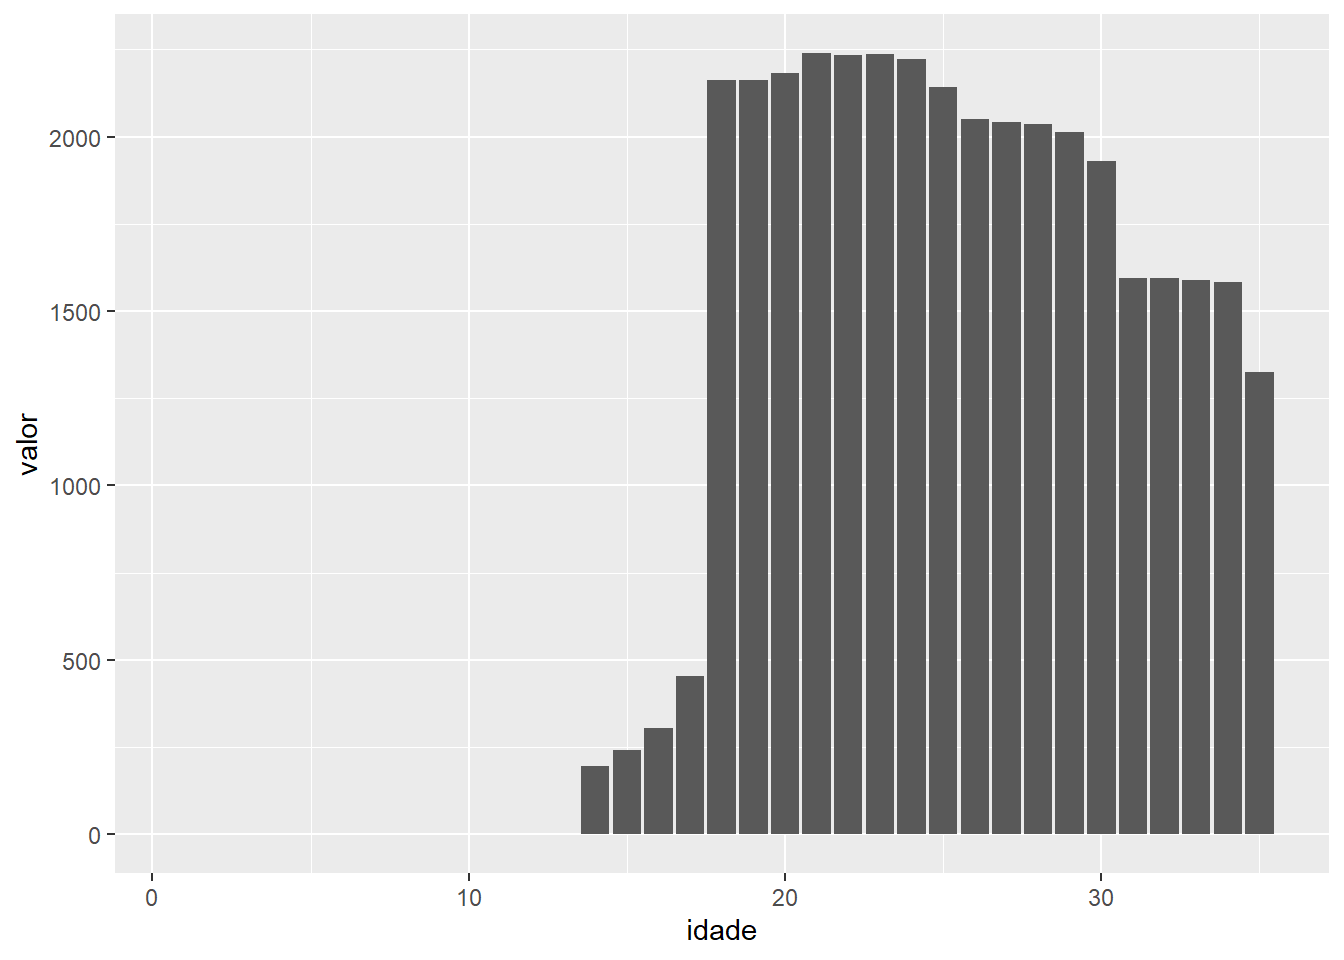
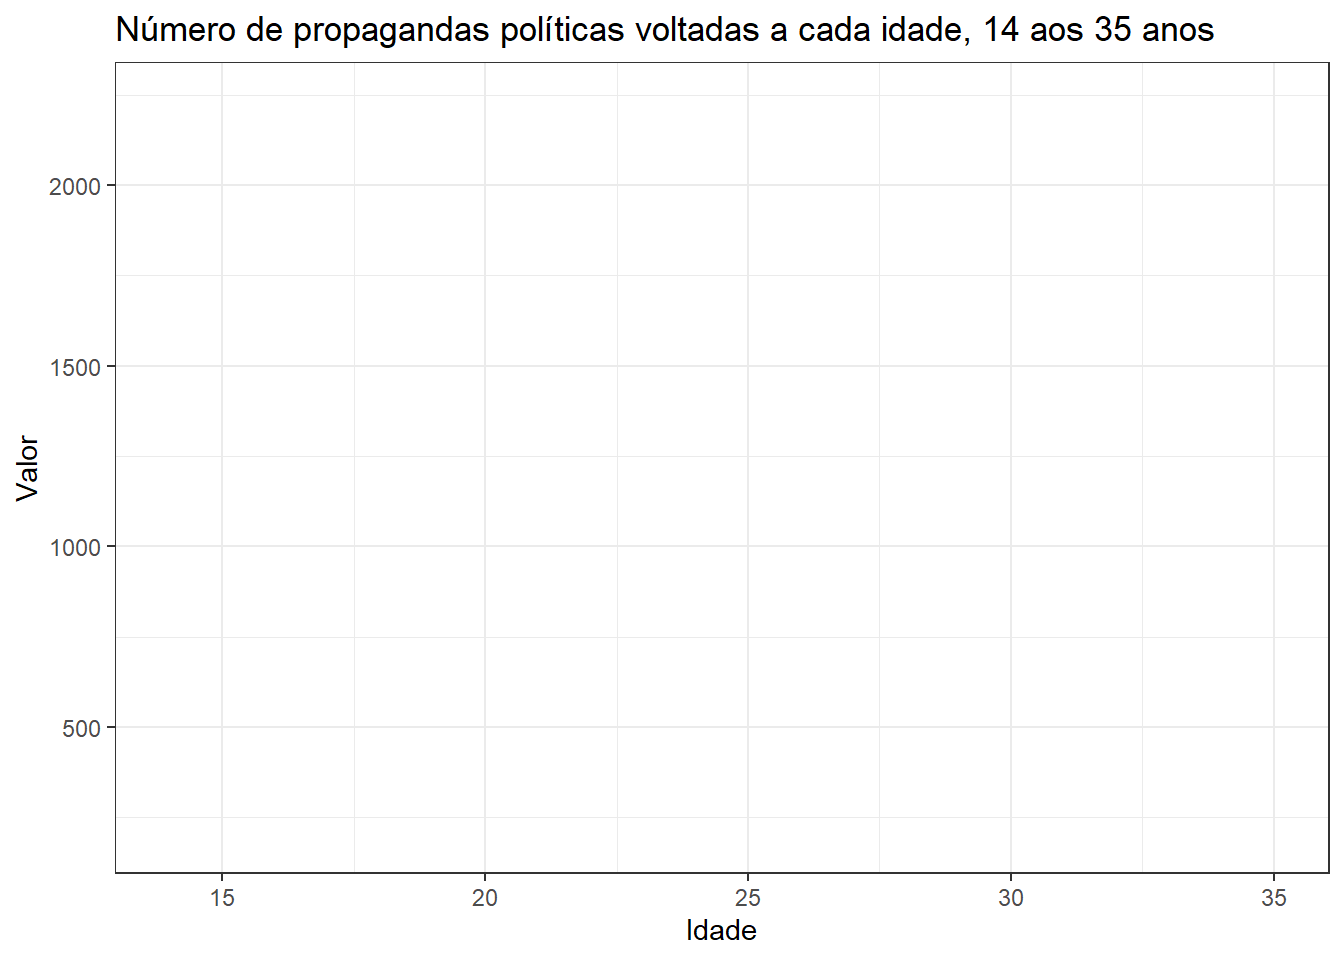
Corrige erros de portugues e altera grafico

diff --git a/static/blog/2019-10-13-propaganda-politica-snapchat_files/figure-html/widgets/widget_unnamed-chunk-2.html b/static/blog/2019-10-13-propaganda-politica-snapchat_files/figure-html/widgets/widget_unnamed-chunk-2.html
@@ -17,12 +17,12 @@
 </head>
 <body>
 <div id="htmlwidget_container">
-  <div id="htmlwidget-f6d1aeaefe73d2535bd1" style="width:100%;height:500px;" class="datatables html-widget"></div>
+  <div id="htmlwidget-85fda7d5fd07030310c1" style="width:100%;height:500px;" class="datatables html-widget"></div>
   <script>HTMLWidgets.pymChild = new pym.Child();HTMLWidgets.addPostRenderHandler(function(){
                                 setTimeout(function(){HTMLWidgets.pymChild.sendHeight();},100);
                             });</script>
 </div>
-<script type="application/json" data-for="htmlwidget-f6d1aeaefe73d2535bd1">{"x":{"filter":"none","data":[["1","2","3","4","5","6","7","8","9","10","11","12","13","14","15","16","17","18","19","20","21","22","23","24","25","26","27","28","29"],["argentina","australia","austria","belgium","brazil","canada","chile","denmark","finland","france","germany","india","iraq","ireland","kuwait","lithuania","netherlands","new zealand","nigeria","norway","poland","puerto rico","south africa","sweden","switzerland","turkey","united arab emirates","united kingdom","united states"],[6,27,31,28,1,291,1,97,17,58,8,18,1,21,35,3,75,1,9,342,14,1,10,19,16,4,5,101,1601]],"container":"<table class=\"display\">\n  <thead>\n    <tr>\n      <th> <\/th>\n      <th>CountryCode<\/th>\n      <th>n<\/th>\n    <\/tr>\n  <\/thead>\n<\/table>","options":{"columnDefs":[{"className":"dt-right","targets":2},{"orderable":false,"targets":0}],"order":[],"autoWidth":false,"orderClasses":false}},"evals":[],"jsHooks":[]}</script>
-<script type="application/htmlwidget-sizing" data-for="htmlwidget-f6d1aeaefe73d2535bd1">{"viewer":{"width":"100%","height":350,"padding":0,"fill":false},"browser":{"width":"100%","height":500,"padding":0,"fill":false}}</script>
+<script type="application/json" data-for="htmlwidget-85fda7d5fd07030310c1">{"x":{"filter":"none","data":[["1","2","3","4","5","6","7","8","9","10","11","12","13","14","15","16","17","18","19","20","21","22","23","24","25","26","27","28","29"],["argentina","australia","austria","belgium","brazil","canada","chile","denmark","finland","france","germany","india","iraq","ireland","kuwait","lithuania","netherlands","new zealand","nigeria","norway","poland","puerto rico","south africa","sweden","switzerland","turkey","united arab emirates","united kingdom","united states"],[6,27,31,28,1,291,1,97,17,58,8,18,1,21,35,3,75,1,9,342,14,1,10,19,16,4,5,101,1601]],"container":"<table class=\"display\">\n  <thead>\n    <tr>\n      <th> <\/th>\n      <th>CountryCode<\/th>\n      <th>n<\/th>\n    <\/tr>\n  <\/thead>\n<\/table>","options":{"columnDefs":[{"className":"dt-right","targets":2},{"orderable":false,"targets":0}],"order":[],"autoWidth":false,"orderClasses":false}},"evals":[],"jsHooks":[]}</script>
+<script type="application/htmlwidget-sizing" data-for="htmlwidget-85fda7d5fd07030310c1">{"viewer":{"width":"100%","height":350,"padding":0,"fill":false},"browser":{"width":"100%","height":500,"padding":0,"fill":false}}</script>
 </body>
 </html>

diff --git a/content/blog/2019-10-13-propaganda-politica-snapchat.html b/content/blog/2019-10-13-propaganda-politica-snapchat.html
@@ -17,7 +17,7 @@ tags:
 
 <div id="snapchat" class="section level1">
 <h1>Snapchat</h1>
-<p><a href="https://www.snapchat.com/">Snapchat</a> é uma rede social na qual os usuários mandam mensagens com base em imagens para outros usuários da rede. A plataforma <a href="https://www.snap.com/en-US/political-ads/">disponibilizou</a> dados sobre as propagandas políticas feitas na rede social de modo a ter uma plataforma mais transparente para os usuários. Os dados foram coletados do site do snapchat para os anos de 2018 e 2019 e avaliados.</p>
+<p><a href="https://www.snapchat.com/">Snapchat</a> é uma rede social na qual os usuários mandam mensagens com base em imagens para outros usuários da rede. A plataforma <a href="https://www.snap.com/en-US/political-ads/">disponibilizou</a> dados sobre as propagandas políticas feitas na rede social de modo a ter uma plataforma mais transparente para os usuários. Os dados foram coletados do site do Snapchat para os anos de 2018 e 2019 e avaliados.</p>
 <pre class="r"><code>library(tidyverse)
 library(widgetframe)
 
@@ -79,13 +79,13 @@ dt_count_dados &lt;- dados %&gt;%
       TRUE ~ str_extract(AgeBracket, &quot;[:digit:]{2}$&quot;)) %&gt;% 
       as.numeric())</code></pre>
 <p>Calculou-se então quantas propagandas tiveram como alvo o grupo de usuários de 14 anos, 15 anos e assim sucessivamente.</p>
-<pre class="r"><code>x &lt;- numeric(35)
-for (i in 1:35) {
-  x[i] &lt;- sum(i &gt;= faixa_idade$min &amp; i &lt;= faixa_idade$max, na.rm = TRUE)
+<pre class="r"><code>x &lt;- numeric(22)
+for (i in 14:35) {
+  x[i-13] &lt;- sum(i &gt;= faixa_idade$min &amp; i &lt;= faixa_idade$max, na.rm = TRUE)
 }
 
 propaganda_idade &lt;- tibble(
-  idade = 1:35,
+  idade = 14:35,
   valor = x) 
 
 propaganda_idade %&gt;% DT::datatable() %&gt;% 
@@ -95,8 +95,10 @@ propaganda_idade %&gt;% DT::datatable() %&gt;%
 <p>Observa-se que existe uma quebra aos 18 anos, com o grupo de 17 anos sendo alvo de uma quantidade de propagandas muito inferior ao grupo de 18 anos. Provavelmente isto ocorre pois a partir dos 18 anos a pessoa pode votar nos Estados Unidos (país com maior número de propagandas).</p>
 <pre class="r"><code>propaganda_idade %&gt;% 
   ggplot(aes(x = idade, y = valor))+ 
-  geom_col()</code></pre>
+  geom_col() %&gt;% 
+  labs(x = &quot;Idade&quot;, y = &quot;Valor&quot;, title = &quot;Número de propagandas políticas voltadas a cada idade, 14 aos 35 anos&quot;) +
+  theme_bw()</code></pre>
 <p><img src="/blog/2019-10-13-propaganda-politica-snapchat_files/figure-html/unnamed-chunk-6-1.png" width="672" /></p>
-<p>Um exercício simples. Os resultados condizem com o esperado anteriomente, pretendo voltar a fazer algumas análises nesta base de dados.</p>
+<p>Um exercício simples. Os resultados condizem com o esperado anteriormente, pretendo voltar a fazer algumas análises nesta base de dados.</p>
 </div>
 </div>

diff --git a/static/blog/2019-10-13-propaganda-politica-snapchat_files/figure-html/widgets/widget_unnamed-chunk-5.html b/static/blog/2019-10-13-propaganda-politica-snapchat_files/figure-html/widgets/widget_unnamed-chunk-5.html
@@ -17,12 +17,12 @@
 </head>
 <body>
 <div id="htmlwidget_container">
-  <div id="htmlwidget-e1942e094ae181cbb7cf" style="width:100%;height:500px;" class="datatables html-widget"></div>
+  <div id="htmlwidget-0cac205b312d700cb6e8" style="width:100%;height:500px;" class="datatables html-widget"></div>
   <script>HTMLWidgets.pymChild = new pym.Child();HTMLWidgets.addPostRenderHandler(function(){
                                 setTimeout(function(){HTMLWidgets.pymChild.sendHeight();},100);
                             });</script>
 </div>
-<script type="application/json" data-for="htmlwidget-e1942e094ae181cbb7cf">{"x":{"filter":"none","data":[["1","2","3","4","5","6","7","8","9","10","11","12","13","14","15","16","17","18","19","20","21","22","23","24","25","26","27","28","29","30","31","32","33","34","35"],[1,2,3,4,5,6,7,8,9,10,11,12,13,14,15,16,17,18,19,20,21,22,23,24,25,26,27,28,29,30,31,32,33,34,35],[0,0,0,0,0,0,0,0,0,0,0,0,0,197,242,306,454,2163,2162,2181,2239,2234,2236,2222,2141,2049,2041,2037,2014,1931,1594,1594,1589,1584,1325]],"container":"<table class=\"display\">\n  <thead>\n    <tr>\n      <th> <\/th>\n      <th>idade<\/th>\n      <th>valor<\/th>\n    <\/tr>\n  <\/thead>\n<\/table>","options":{"columnDefs":[{"className":"dt-right","targets":[1,2]},{"orderable":false,"targets":0}],"order":[],"autoWidth":false,"orderClasses":false}},"evals":[],"jsHooks":[]}</script>
-<script type="application/htmlwidget-sizing" data-for="htmlwidget-e1942e094ae181cbb7cf">{"viewer":{"width":"100%","height":350,"padding":0,"fill":false},"browser":{"width":"100%","height":500,"padding":0,"fill":false}}</script>
+<script type="application/json" data-for="htmlwidget-0cac205b312d700cb6e8">{"x":{"filter":"none","data":[["1","2","3","4","5","6","7","8","9","10","11","12","13","14","15","16","17","18","19","20","21","22","23","24","25","26","27","28","29","30","31","32","33","34","35"],[1,2,3,4,5,6,7,8,9,10,11,12,13,14,15,16,17,18,19,20,21,22,23,24,25,26,27,28,29,30,31,32,33,34,35],[0,0,0,0,0,0,0,0,0,0,0,0,0,197,242,306,454,2163,2162,2181,2239,2234,2236,2222,2141,2049,2041,2037,2014,1931,1594,1594,1589,1584,1325]],"container":"<table class=\"display\">\n  <thead>\n    <tr>\n      <th> <\/th>\n      <th>idade<\/th>\n      <th>valor<\/th>\n    <\/tr>\n  <\/thead>\n<\/table>","options":{"columnDefs":[{"className":"dt-right","targets":[1,2]},{"orderable":false,"targets":0}],"order":[],"autoWidth":false,"orderClasses":false}},"evals":[],"jsHooks":[]}</script>
+<script type="application/htmlwidget-sizing" data-for="htmlwidget-0cac205b312d700cb6e8">{"viewer":{"width":"100%","height":350,"padding":0,"fill":false},"browser":{"width":"100%","height":500,"padding":0,"fill":false}}</script>
 </body>
 </html>
